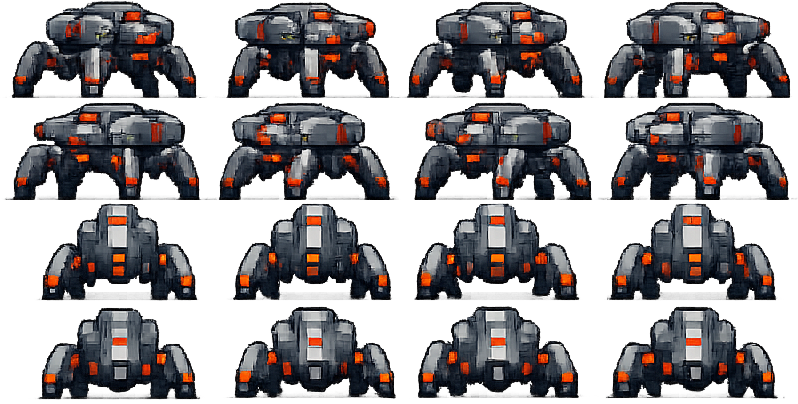
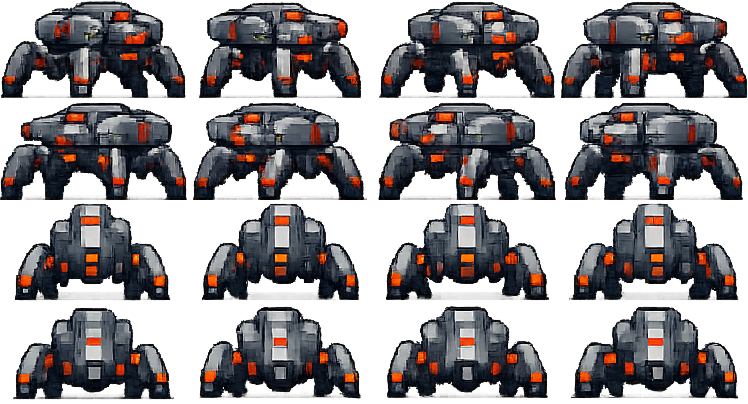
fix(mecha): corriger le sprite sheet — 4 frames par direction, recadrage serré
- Détection des vrais séparateurs inter-frames : 4 frames/rangée (pas 3)
- Taille de frame réduite de 266×101 à 187×101 (recadrage au plus près du contenu)
- Sheet passé de 798×404 à 748×404 (4 cols × 4 rows)
- mecha.tscn mis à jour : 16 AtlasTextures + animations à 4 frames

diff --git a/features.md b/features.md
@@ -679,7 +679,7 @@ Récapitulatif de toutes les modifications apportées au projet.
 - **`@export hitbox_scale`** : facteur multiplicatif de hitbox réglable dans l'inspecteur Godot (défaut 2.0)
 - **Collision murs** : `collision_layer = 4` (layer 3, mecha), `collision_mask = 1` (layer 1, TileMap) forcés dans `_ready()`
 - **Orientation** : `facing_dir` (`Vector2`, public) mémorise la dernière direction de déplacement non-nulle ; l'avant du mecha = `facing_dir`, l'arrière = `-facing_dir`
-- **Animations directionnelles** : `AnimatedSprite2D` avec sprite sheet 3×4 (`mecha_spider_sheet.png`, 266×101 px/frame) — 4 animations : `walk_right`, `walk_left`, `walk_up`, `walk_down`, 3 frames chacune à 8 fps ; animation stoppée (frame figée) quand le mecha est à l'arrêt
+- **Animations directionnelles** : `AnimatedSprite2D` avec sprite sheet 4×4 (`mecha_spider_sheet.png`, 187×101 px/frame, 748×404 total) — 4 animations : `walk_right`, `walk_left`, `walk_up`, `walk_down`, 4 frames chacune à 8 fps ; animation stoppée (frame figée) quand le mecha est à l'arrêt
 - **Éjection orientée** : `_find_safe_exit_position()` teste en priorité l'arrière, puis les côtés relatifs à `facing_dir`, avant les offsets absolus
 - **Cooldown anti-spam** : délai avant de pouvoir re-monter après une descente
 - **Multi-mecha** : chaque Mecha possède un `mecha_id` unique, plusieurs Mechas coexistent par niveau
